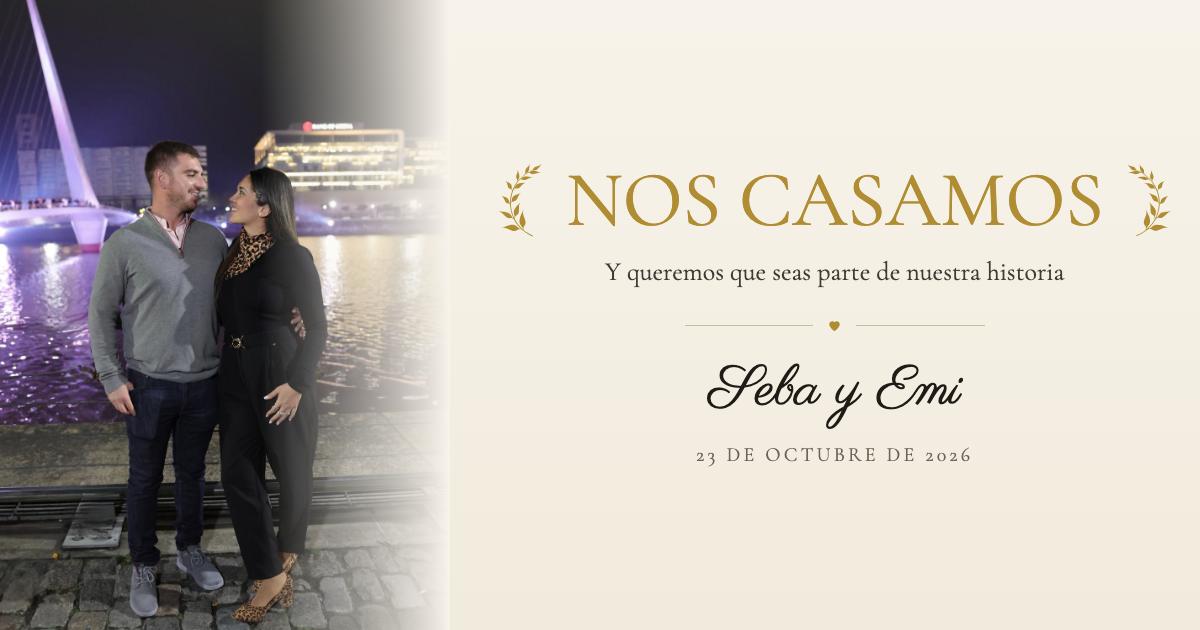
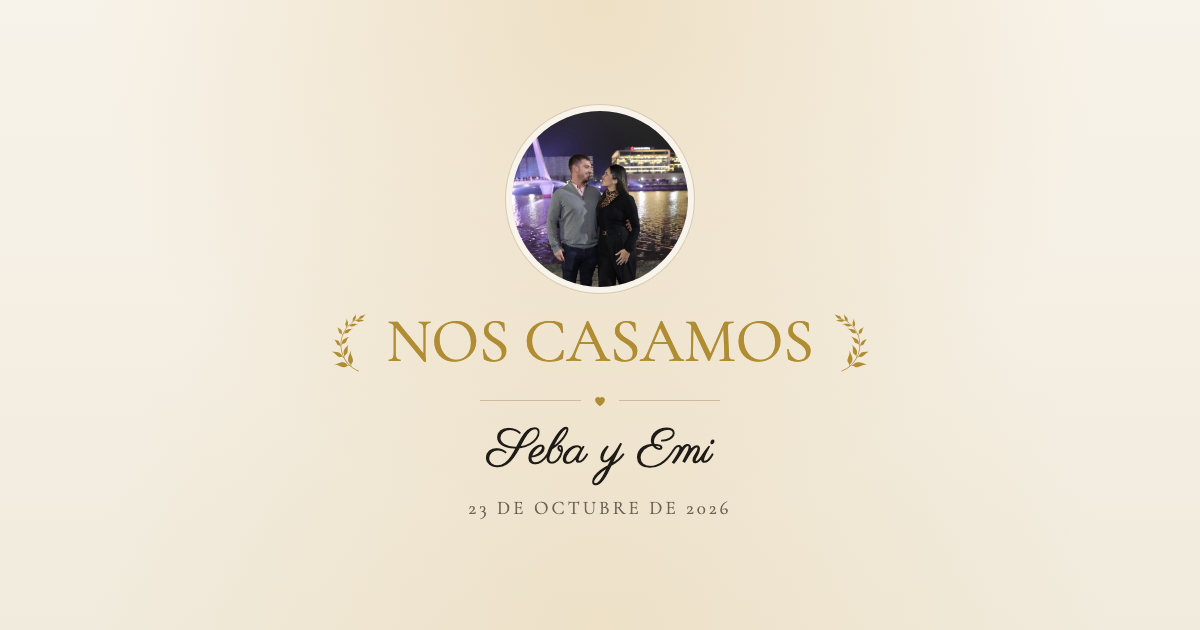
fix: rehacer la og para que sobreviva al recorte de WhatsApp
WhatsApp muestra el preview chico como un cuadrado centrado, y la
composición anterior era apaisada con la foto a la izquierda y el texto a
la derecha: el recorte partía "NOS CASA|MOS" y "Seba y E|mi", y de la
foto quedaban las piernas.

Ahora todo entra en los 630x630 del medio: la foto en círculo —que
recorta bien en cualquier proporción—, el titular con los laureles, la
firma y la fecha. Lo que queda a los costados es solo fondo y se puede
perder sin que falte nada.

Sube el ?v= porque WhatsApp cachea la preview por URL.

diff --git a/index.html b/index.html
@@ -23,7 +23,7 @@
     />
     <!-- WhatsApp y Facebook cachean la preview por URL, así que al cambiar
          og.png hay que subir este ?v= o siguen mostrando la imagen vieja. -->
-    <meta property="og:image" content="https://sebayemi.noscasamos.lat/og.png?v=2" />
+    <meta property="og:image" content="https://sebayemi.noscasamos.lat/og.png?v=3" />
     <meta property="og:image:width" content="1200" />
     <meta property="og:image:height" content="630" />
     <meta property="og:locale" content="es_UY" />
@@ -35,7 +35,7 @@
       name="twitter:description"
       content="Nos casamos el 23 de octubre de 2026 en el Parque Policial Solymar."
     />
-    <meta name="twitter:image" content="https://sebayemi.noscasamos.lat/og.png?v=2" />
+    <meta name="twitter:image" content="https://sebayemi.noscasamos.lat/og.png?v=3" />
     <link rel="preconnect" href="https://fonts.googleapis.com" />
     <link rel="preconnect" href="https://fonts.gstatic.com" crossorigin />
     <link
